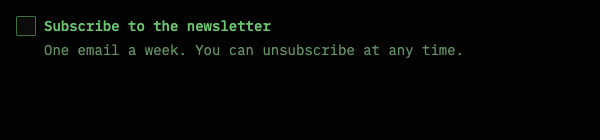
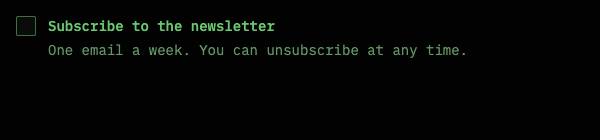
fix(ui): widen the horizontal Field gap to gap-x-3 so nested options align
The label of a horizontal Checkbox now starts at 32px, so options indented with pl-8 line up under the parent label. Screenshots refreshed.

Changed region(s): [[0.06, 0.3143, 0.78, 0.4286], [0.06, 0.1429, 0.48, 0.2286]]

diff --git a/packages/ui/src/components/field/field.tsx b/packages/ui/src/components/field/field.tsx
@@ -17,7 +17,7 @@ const fieldVariants = cva("", {
   variants: {
     orientation: {
       vertical: "flex flex-col gap-1",
-      horizontal: "grid grid-cols-[auto_1fr] items-start gap-x-2 gap-y-1",
+      horizontal: "grid grid-cols-[auto_1fr] items-start gap-x-3 gap-y-1",
     },
   },
   defaultVariants: { orientation: DEFAULT_ORIENTATION },
